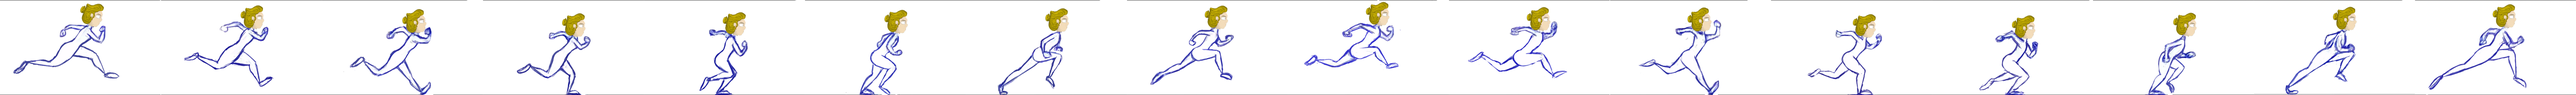
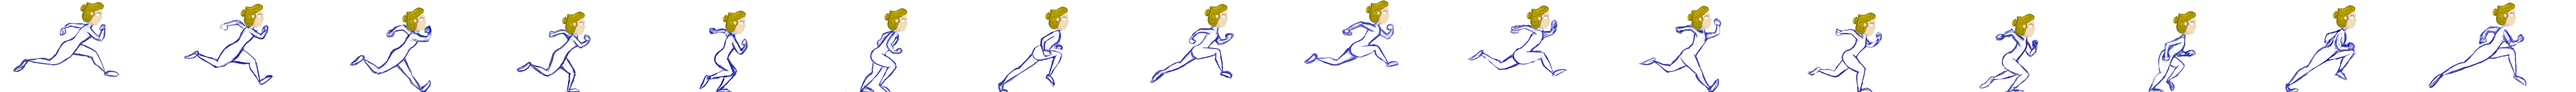
Added a lot of new images

diff --git a/core/src/mx/com/nullpointer/inanotherkingdom/PantallaMenu.java b/core/src/mx/com/nullpointer/inanotherkingdom/PantallaMenu.java
@@ -51,7 +51,7 @@ class PantallaMenu extends GenericScreen {
     }
 
     private void cargarTexturas() {
-        //texturaFondo = new Texture("");
+        texturaFondo = new Texture("background/menubg.png");
         texturaTitulo = new Texture("logo.png");
 
     }
@@ -60,8 +60,8 @@ class PantallaMenu extends GenericScreen {
         escenaMenu = new Stage(view);
 
         //Botón Play
-        TextureRegionDrawable trdPlay = new TextureRegionDrawable(new TextureRegion(new Texture("play.png")));
-        TextureRegionDrawable trdPlayPress = new TextureRegionDrawable(new TextureRegion(new Texture("playpress.png")));
+        TextureRegionDrawable trdPlay = new TextureRegionDrawable(new TextureRegion(new Texture("btn/playbtn.png")));
+        TextureRegionDrawable trdPlayPress = new TextureRegionDrawable(new TextureRegion(new Texture("btn/playbtnpress.png")));
 
         ImageButton btnPlay = new ImageButton(trdPlay,trdPlayPress);
         btnPlay.setPosition(ANCHO/2 - btnPlay.getWidth()/2, ALTO/2 - btnPlay.getHeight()/2);
@@ -76,8 +76,8 @@ class PantallaMenu extends GenericScreen {
         escenaMenu.addActor(btnPlay);
 
         //Botón Levels
-        TextureRegionDrawable trdLevels = new TextureRegionDrawable(new TextureRegion(new Texture("levels.png")));
-        TextureRegionDrawable trdLevelsPress = new TextureRegionDrawable(new TextureRegion(new Texture("levelsPress.png")));
+        TextureRegionDrawable trdLevels = new TextureRegionDrawable(new TextureRegion(new Texture("btn/levelsbtn.png")));
+        TextureRegionDrawable trdLevelsPress = new TextureRegionDrawable(new TextureRegion(new Texture("btn/levelsbtnpress.png")));
 
         ImageButton btnLevels = new ImageButton(trdLevels,trdLevelsPress);
         btnLevels.setPosition(ANCHO/2 - btnLevels.getWidth()/2, ALTO/2 - btnLevels.getHeight()*2);
@@ -93,8 +93,8 @@ class PantallaMenu extends GenericScreen {
 
 
         //Botón Arsenal
-        TextureRegionDrawable trdArsenal = new TextureRegionDrawable(new TextureRegion(new Texture("arsenal.png")));
-        TextureRegionDrawable trdArsenalPress = new TextureRegionDrawable(new TextureRegion(new Texture("arsenalPress.png")));
+        TextureRegionDrawable trdArsenal = new TextureRegionDrawable(new TextureRegion(new Texture("btn/arsenalbtn.png")));
+        TextureRegionDrawable trdArsenalPress = new TextureRegionDrawable(new TextureRegion(new Texture("btn/arsenalbtnpress.png")));
         ImageButton btnArsenal = new ImageButton(trdArsenal,trdArsenalPress);
         btnArsenal.setPosition(ANCHO/2 - btnArsenal.getWidth()/2, ALTO/2 - btnArsenal.getHeight()*3.5f);
 
@@ -109,8 +109,8 @@ class PantallaMenu extends GenericScreen {
         Gdx.input.setInputProcessor(escenaMenu);
 
         //Botón Ajustes
-        TextureRegionDrawable trdAjustes = new TextureRegionDrawable(new TextureRegion(new Texture("ajustes.png")));
-        TextureRegionDrawable trdAjustesPress = new TextureRegionDrawable(new TextureRegion(new Texture("ajustesPress.png")));
+        TextureRegionDrawable trdAjustes = new TextureRegionDrawable(new TextureRegion(new Texture("btn/ajustesbtn.png")));
+        TextureRegionDrawable trdAjustesPress = new TextureRegionDrawable(new TextureRegion(new Texture("btn/ajustesbtnpress.png")));
         ImageButton btnAjustes = new ImageButton(trdAjustes,trdAjustesPress);
         btnAjustes.setPosition( btnAjustes.getWidth()/2, btnAjustes.getHeight()/2);
 
@@ -124,8 +124,8 @@ class PantallaMenu extends GenericScreen {
         escenaMenu.addActor(btnAjustes);
 
         //Botón Pregunta
-        TextureRegionDrawable trdPregunta = new TextureRegionDrawable(new TextureRegion(new Texture("question.png")));
-        TextureRegionDrawable trdPreguntaPress = new TextureRegionDrawable(new TextureRegion(new Texture("questionPress.png")));
+        TextureRegionDrawable trdPregunta = new TextureRegionDrawable(new TextureRegion(new Texture("btn/aboutbtn.png")));
+        TextureRegionDrawable trdPreguntaPress = new TextureRegionDrawable(new TextureRegion(new Texture("btn/aboutbtnpress.png")));
 
         ImageButton btnPregunta = new ImageButton(trdPregunta,trdPreguntaPress);
         btnPregunta.setPosition( ANCHO - 3*btnPregunta.getWidth()/2, btnPregunta.getHeight()/2);
@@ -138,6 +138,7 @@ class PantallaMenu extends GenericScreen {
             }
         });
         escenaMenu.addActor(btnPregunta);
+
 
         //Añadiendo la musica
         musicaMenus= Gdx.audio.newMusic(Gdx.files.internal("loop.mp3"));
@@ -155,21 +156,23 @@ class PantallaMenu extends GenericScreen {
 
     @Override
     public void render(float delta) {
-        clearScreen(50/255f,158/255f,218/255f);
+        clearScreen();
 
 
         batch.setProjectionMatrix(camera.combined);
-        escenaMenu.draw();
+
 
 
 
         batch.begin();
+        batch.draw(texturaFondo,0 ,0);
         //Dibujando el fondo
         //batch.draw(texturaFondo,0,0 );
 
         //Dibujando el título
-        batch.draw(texturaTitulo, ANCHO/2 - texturaTitulo.getWidth()/2, ALTO/2 + texturaTitulo.getHeight()/2);
+        batch.draw(texturaTitulo, ANCHO/2 - texturaTitulo.getWidth()/2, ALTO/2 );
         batch.end();
+        escenaMenu.draw();
 
 
     }

diff --git a/core/src/mx/com/nullpointer/niveles/Nivel_Inicial.java b/core/src/mx/com/nullpointer/niveles/Nivel_Inicial.java
@@ -1,6 +1,7 @@
 package mx.com.nullpointer.niveles;
 
 import com.badlogic.gdx.graphics.OrthographicCamera;
+import com.badlogic.gdx.graphics.Texture;
 import com.badlogic.gdx.maps.tiled.TiledMap;
 import com.badlogic.gdx.maps.tiled.renderers.OrthogonalTiledMapRenderer;
 import com.badlogic.gdx.scenes.scene2d.Stage;
@@ -34,6 +35,7 @@ public class Nivel_Inicial extends GenericScreen {
     @Override
     public void show() {
         createHUD();
+        laurence = new MainCharacter(new Texture("laurence_running.png"));
 
     }
 
@@ -49,7 +51,9 @@ public class Nivel_Inicial extends GenericScreen {
 
     @Override
     public void render(float delta) {
+        laurence.move(2);
         updateHUD();
+
 
         //Borrar pantalla
         clearScreen();
@@ -68,15 +72,17 @@ public class Nivel_Inicial extends GenericScreen {
     private void updateHUD() {
         //Para que siga a Laurence
         float posX = laurence.getX();
-        if(posX<ANCHO/2)
+       /* if(posX < ANCHO/4)
         {
-            cameraHUD.position.set(ANCHO/2, ALTO/2, 0);
-        } else if (posX > ANCHO/2) {   // Última mitad de la pantalla
-            cameraHUD.position.set(ANCHO,cameraHUD.position.y,0);
+            camera.position.set(ANCHO/2, ALTO/2, 0);
+        } else if (posX > ANCHO/4) {   // Última mitad de la pantalla
+            camera.position.set(3*ANCHO/4,cameraHUD.position.y,0);
         } else {    // En 'medio' del mapa
-            cameraHUD.position.set(posX,cameraHUD.position.y,0);
-        }
-        cameraHUD.update();
+            camera.position.set(posX,cameraHUD.position.y,0);
+        }*/
+       camera.position.set(posX+ ANCHO/3,camera.position.y,0);
+
+        camera.update();
     }
 
     @Override

diff --git a/core/src/mx/com/nullpointer/utils/MainCharacter.java b/core/src/mx/com/nullpointer/utils/MainCharacter.java
@@ -24,8 +24,12 @@ public class MainCharacter extends Objeto
     public MainCharacter(Texture texture)
     {
         TextureRegion region = new TextureRegion(texture);
-        TextureRegion[][] characterTexture = region.split(396,235);
-        animation = new Animation(0.15f,characterTexture[0][0],characterTexture[0][1],characterTexture[0][2]);
+        TextureRegion[][] characterTexture = region.split(396,228);
+        animation = new Animation(0.05f,
+                characterTexture[0][0],characterTexture[0][1],characterTexture[0][2], characterTexture[0][3],
+                characterTexture[0][4],characterTexture[0][5],characterTexture[0][6],characterTexture[0][7],
+                characterTexture[0][8],characterTexture[0][9],characterTexture[0][10],characterTexture[0][11],
+                characterTexture[0][12],characterTexture[0][13],characterTexture[0][14],characterTexture[0][15]);
         animation.setPlayMode(Animation.PlayMode.LOOP);
         timerAnimation =0;
         // Quieto
